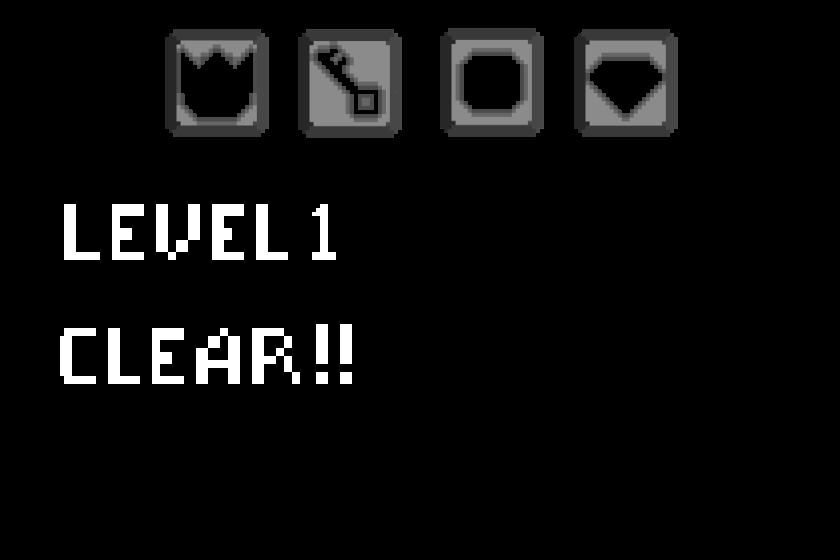
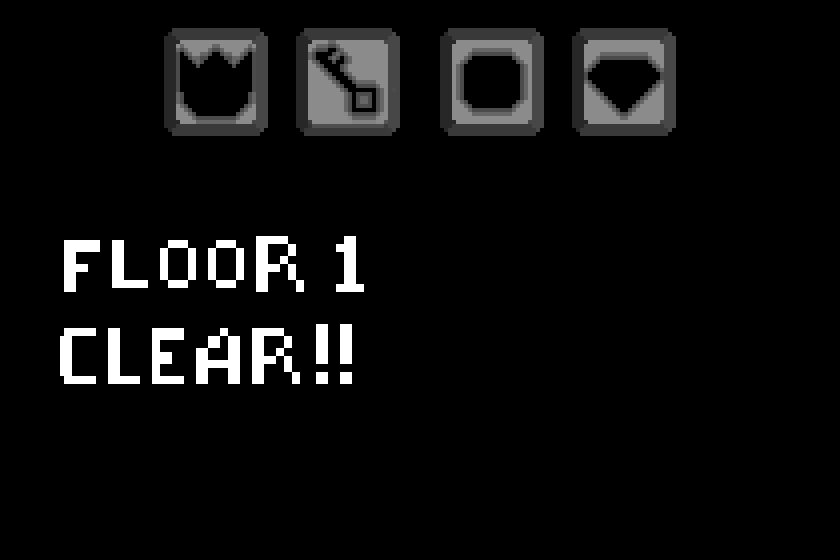
fix bug, fix image

diff --git a/Treasure Hunter/Game.cpp b/Treasure Hunter/Game.cpp
@@ -186,11 +186,6 @@ void Game::Draw()
 				draw_image(Clear_scene2, 0, 0, Width, Height * 1.2);// function for image movement
 				break;
 			}
-			case static_cast<int>(State::FLOOR_3) :
-			{
-				draw_image(Clear_scene3, 0, 0, Width, Height * 1.2);// function for image movement
-				break;
-			}
 		}
 		draw_image(Jump_minsoo.image, Width * 0.52, Height * 0.4, Jump_minsoo.GetFrameSize().x, Jump_minsoo.GetFrameSize().y, Jump_minsoo.GetDrawPos().x, 0);
 		Jump_minsoo.Update();
@@ -417,6 +412,10 @@ void Game::Get_inputkey(doodle::KeyboardButtons doodleButton)
 			sounds.Play_sound(static_cast<int>(SoundType::SELECT_EFFECT));
 			sounds.music.stop();
 			Is_music_playing = false;
+			Save_treasure[0] = false;
+			Save_treasure[1] = false;
+			Save_treasure[2] = false;
+			Save_treasure[3] = false;
 			Current_state = State::START;
 		}
 		else
@@ -763,28 +762,6 @@ void Game::Update()
 	}
 	case State::CLEAR:
 	{
-		//if(Level_clear[0] == true)
-		//{
-		//	if(Get_treasure[0] == true)
-		//	{
-		//		Save_treasure[0] = true;
-		//	}
-		//	if (Get_treasure[1] == true)
-		//	{
-		//		Save_treasure[1] = true;
-		//	}
-		//}
-		//if (Level_clear[1] == true)
-		//{
-		//	if (Get_treasure[2] == true)
-		//	{
-		//		Save_treasure[2] = true;
-		//	}
-		//	if (Get_treasure[3] == true)
-		//	{
-		//		Save_treasure[3] = true;
-		//	}
-		//}
 		break;
 	}
 	case State::GAME_OVER:
@@ -1145,7 +1122,7 @@ void Game::Set_ingame_music()
 void Game::Generate_shooting_star()
 {
 	Star_pos.x = doodle::random(0, Width);
-	Star_pos.y = -(Star.GetHeight() + 1000);
+	Star_pos.y = -(Star_anim.GetFrameSize().y + 1000);
 }
 
 void Game::Update_shooting_star()
@@ -1164,14 +1141,14 @@ void Game::Update_shooting_star()
 			}
 		}
 	}
-	if (Star_pos.y > -Star.GetHeight())
+	if (Star_pos.y > -Star_anim.GetFrameSize().y)
 	{
 		Star_pos.x += doodle::DeltaTime * 1500;
 	}
 	if (Star_pos.x > Width || Star_pos.y > Height)
 	{
 		Star_pos.x = doodle::random(0, Width);
-		Star_pos.y = -(Star.GetHeight() + 4000);
+		Star_pos.y = -(Star_anim.GetFrameSize().y + 4000);
 		if (Draw_hojin == true)
 		{
 			Draw_hojin = false;
@@ -1958,7 +1935,7 @@ void Game::Input_level(doodle::KeyboardButtons doodleButton)
 		sounds.Stop_sound();
 		sounds.music.stop();
 		Is_music_playing = false;
-		sounds.Play_sound(static_cast<int>(SoundType::WIN));
+
 		if (Current_state == State::FLOOR_1)
 		{
 			Save_treasure[0] = true;
@@ -1969,9 +1946,15 @@ void Game::Input_level(doodle::KeyboardButtons doodleButton)
 			Save_treasure[2] = true;
 			Save_treasure[3] = true;
 		}
-
-		Current_state = State::CLEAR;
-
+		if (Current_state != State::FLOOR_3)
+		{
+			sounds.Play_sound(static_cast<int>(SoundType::WIN));
+			Current_state = State::CLEAR;
+		}
+		if (Current_state == State::FLOOR_3)
+		{
+			Current_state = State::ENDING;
+		}
 	}
 	if (doodleButton == doodle::KeyboardButtons::L)
 	{

diff --git a/Treasure Hunter/Game.h b/Treasure Hunter/Game.h
@@ -115,7 +115,6 @@ class Game
 	doodle::Image Clear_tutorial{ "assets/Tutorial_clear.png" };
 	doodle::Image Clear_scene1{ "assets/Level1_clear.png" };
 	doodle::Image Clear_scene2{ "assets/Level2_clear.png" };
-	doodle::Image Clear_scene3{ "assets/Level3_clear.png" }; 
 	
 	doodle::Image Level_select_Treasure_1{ "assets/level_select_Treasure1.png" };
 	doodle::Image Level_select_Treasure_2{ "assets/level_select_Treasure2.png" };
@@ -124,7 +123,7 @@ class Game
 	doodle::Image Treasure_box{ "assets/treasure_box.png" };
 	doodle::Image Ending_credit{ "assets/Ending_credit.png" };
 	doodle::Image Hojin{ "assets/Hojin.png" };
-	doodle::Image Star{ "assets/Star.png" };
+
 	Sprite Siren_sprite{ "assets/siren_sprite.png",9,0.05 };
 	
 	Sprite Clear_effect{ "assets/clear_effect.png",8,0.1 };
